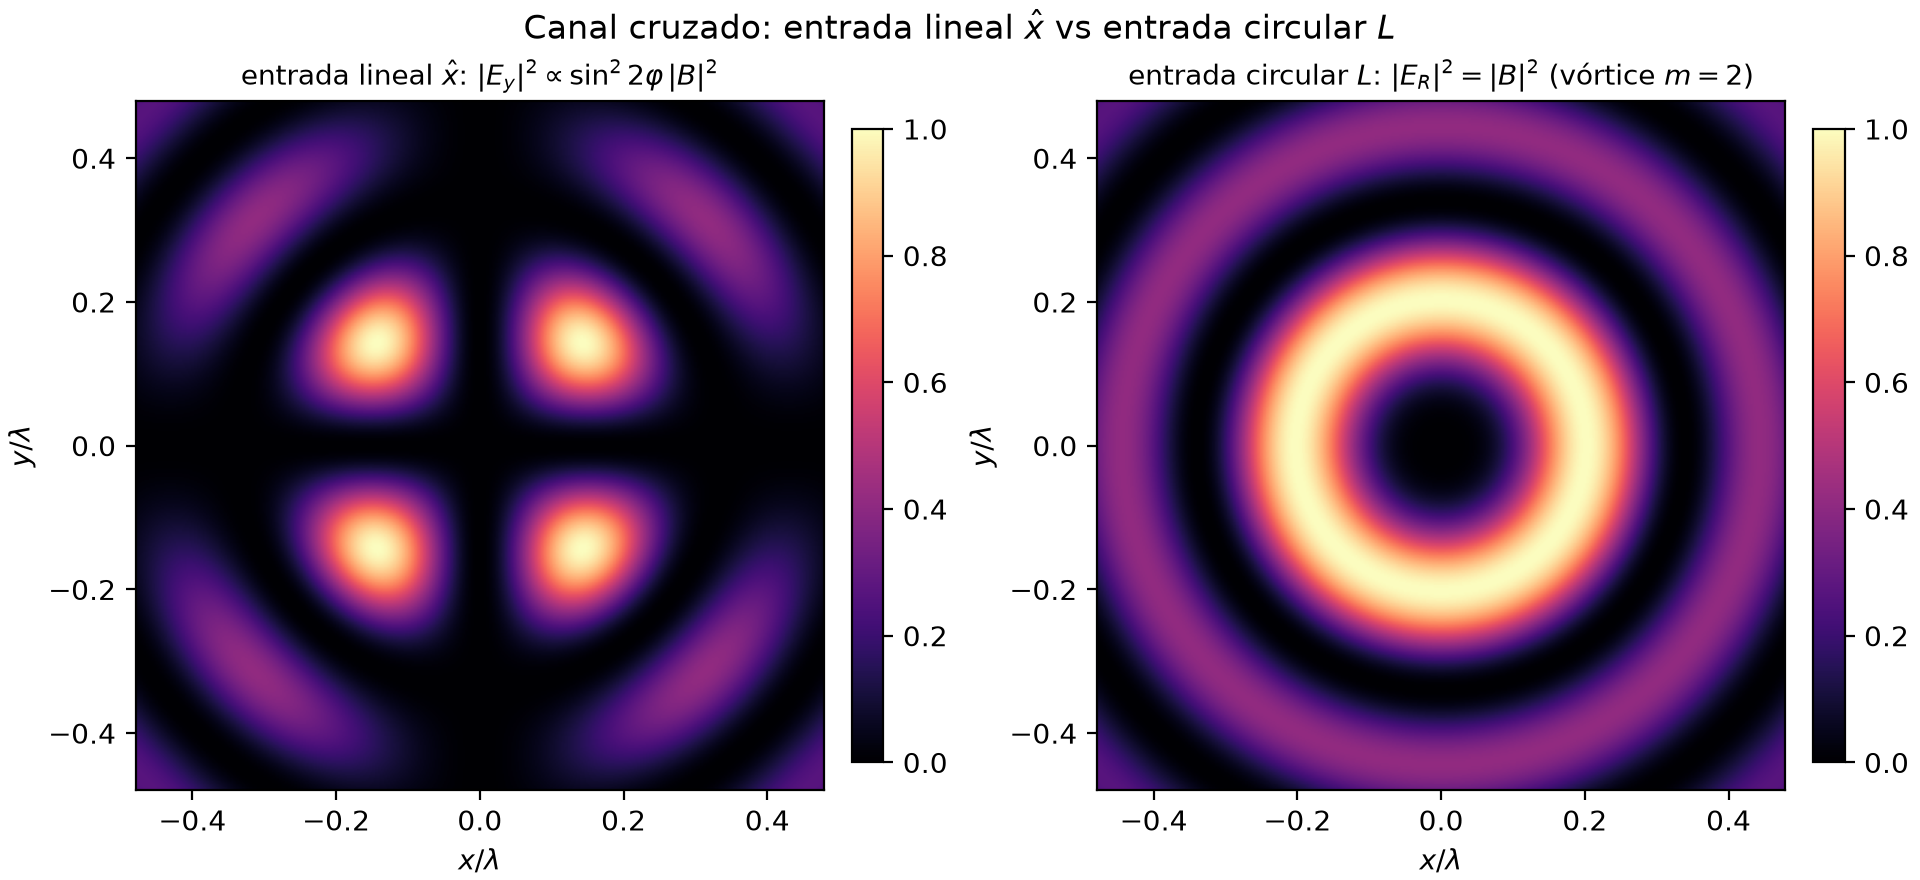
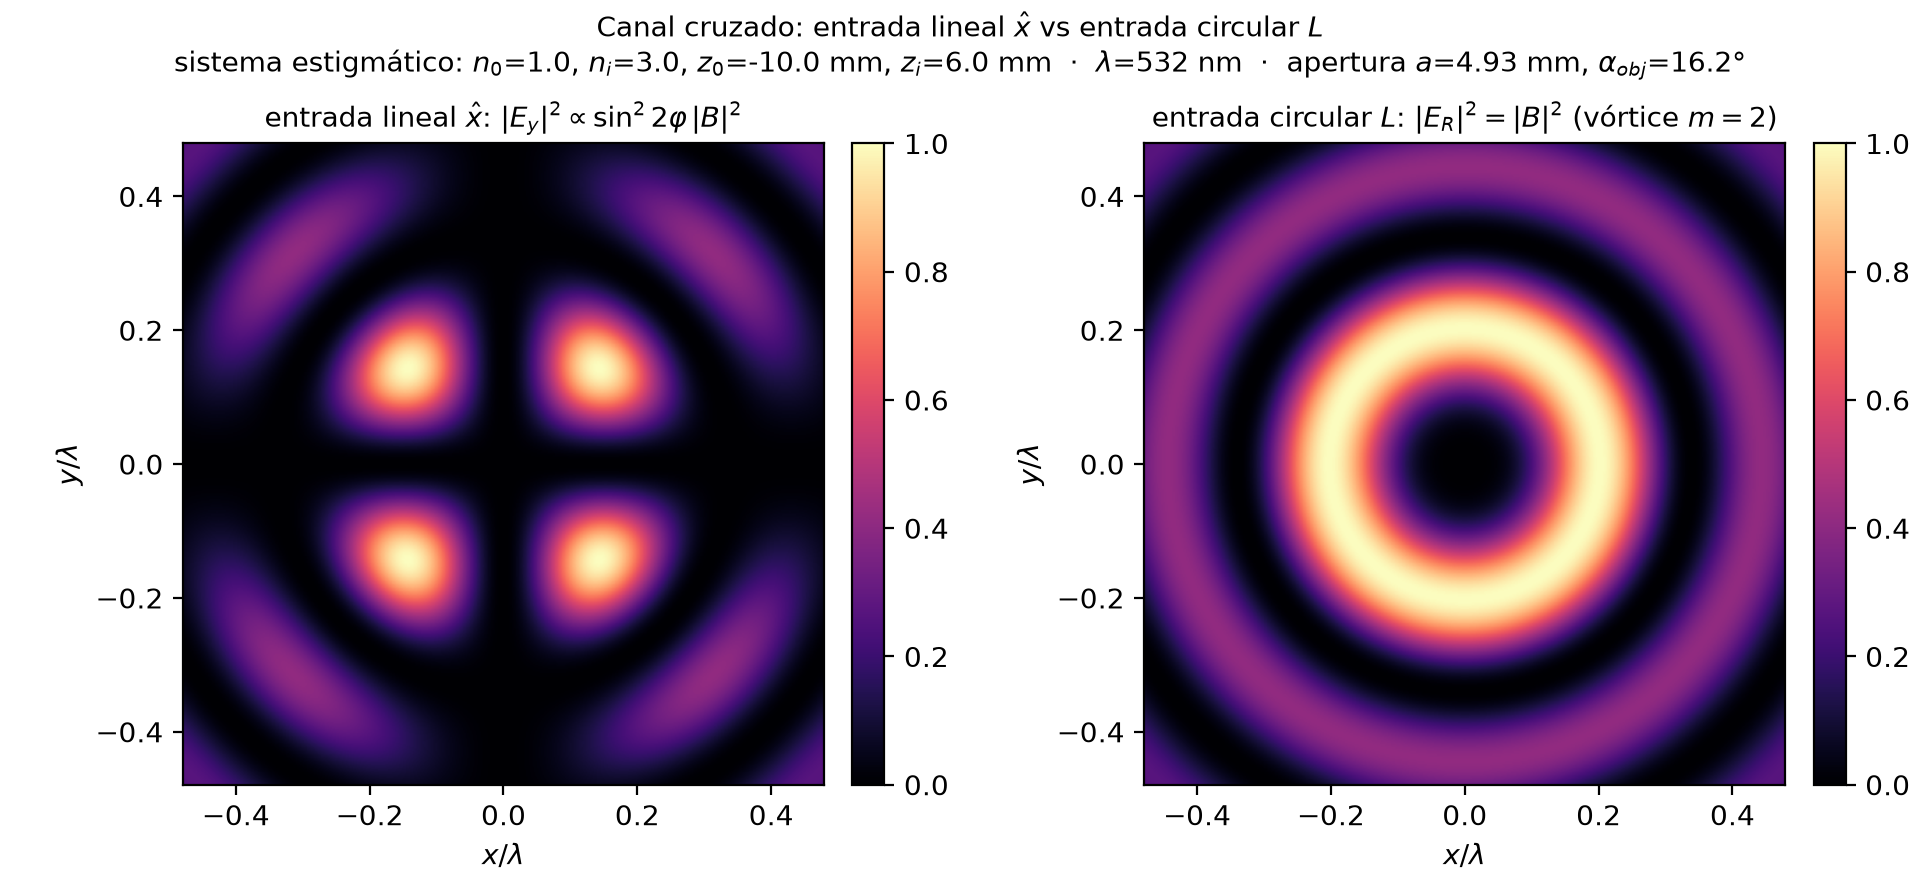
Annotate every study figure with the stigmatic-system parameters
All figures now carry a caption line with the optical system: n0, ni, z0,
zi, wavelength, aperture and maximum aperture angle.

- common.system_caption() for the single-diopter studies (1, 2): base
  n0/ni/z0/zi + lambda, optionally the aperture a and its alpha_obj.
- imaging_common.system_caption() for the two-diopter studies (3, 4):
  both diopters + lambda, optionally the pupil radius r_a and alpha_max
  = arctan(r_a/|z0(D1)|).
- Sweep figures report the swept aperture/index range; fixed-configuration
  figures report the specific values.

Figures regenerated and curated copies in results/ refreshed.

diff --git a/investigation/focal_plane_aperture_study/study_4_resolution_inversion.py b/investigation/focal_plane_aperture_study/study_4_resolution_inversion.py
@@ -134,8 +134,8 @@ for axi, feature in zip(axes, ("discs", "lines")):
     axi.grid(True, alpha=0.3)
     axi.legend(fontsize=8)
 fig.suptitle(
-    rf"Contraste del valle vs separación | $r_a$={R_A} mm, D2 rápida ($z_i$={D2_FAST['zi']}) | "
-    r"polarización incidente lineal $\hat{x}$")
+    r"Contraste del valle vs separación  ·  polarización incidente lineal $\hat{x}$" + "\n"
+    + ic.system_caption(R_A, d2=D2_FAST), fontsize=10)
 fig.savefig(out / "fig1_inversion_window.png", dpi=220)
 plt.close(fig)
 
@@ -208,8 +208,9 @@ for feature, figname in (("discs", "fig2_showcase_discs.png"),
 
     label = "discos" if feature == "discs" else "líneas"
     fig.suptitle(
-        rf"{label}: sep = {s_frac:.2f} $d_{{Airy}}$ = {sep*1e3:.3f} µm | "
-        r"polarización incidente lineal $\hat{x}$, separación $\parallel \hat{y}$")
+        rf"{label}: sep = {s_frac:.2f} $d_{{Airy}}$ = {sep*1e3:.3f} µm  ·  "
+        r"pol. incidente lineal $\hat{x}$, separación $\parallel \hat{y}$" + "\n"
+        + ic.system_caption(R_A, d2=D2_FAST), fontsize=10)
     fig.savefig(out / figname, dpi=200)
     plt.close(fig)
     print(f"{feature}: showcase en sep = {s_frac:.2f} dAiry "
@@ -284,8 +285,9 @@ for feature, figname in (("discs", "fig2_showcase_discs.png"),
             axi.set_ylabel(r"$y/\lambda$")
 
     fig.suptitle(
-        rf"Mapas de polarización (Stokes) de la imagen | {label}, sep = {s_frac:.2f} $d_{{Airy}}$, "
-        r"polarización incidente lineal $\hat{x}$")
+        rf"Mapas de polarización (Stokes) de la imagen  ·  {label}, sep = {s_frac:.2f} $d_{{Airy}}$  ·  "
+        r"pol. incidente lineal $\hat{x}$" + "\n" + ic.system_caption(R_A, d2=D2_FAST),
+        fontsize=10)
     fig.savefig(out / polfig, dpi=180)
     plt.close(fig)
     print(f"{feature}: mapas de Stokes -> {polfig}")
@@ -307,8 +309,9 @@ for feature, figname in (("discs", "fig2_showcase_discs.png"),
         axi.set_xlabel(r"$x/\lambda$")
         axi.set_ylabel(r"$y/\lambda$")
     fig.suptitle(
-        rf"Mapa de polarización de la imagen | {label}, sep = {s_frac:.2f} $d_{{Airy}}$, "
-        r"polarización incidente lineal $\hat{x}$")
+        rf"Mapa de polarización de la imagen  ·  {label}, sep = {s_frac:.2f} $d_{{Airy}}$  ·  "
+        r"pol. incidente lineal $\hat{x}$" + "\n" + ic.system_caption(R_A, d2=D2_FAST),
+        fontsize=10)
     fig.savefig(out / mapfig, dpi=200)
     plt.close(fig)
     print(f"{feature}: mapa de elipses -> {mapfig}")

diff --git a/investigation/focal_plane_aperture_study/study_1_aperture_sweep.py b/investigation/focal_plane_aperture_study/study_1_aperture_sweep.py
@@ -129,8 +129,13 @@ ax[1, 1].set_title("Transmisión y radio de energía encerrada")
 ax[1, 1].grid(True, alpha=0.3)
 ax[1, 1].legend()
 
-fig.suptitle(rf"Barrido de apertura | $n_0$={N0}, $n_i$={NI}, $z_0$={Z0}, $z_i$={ZI} (Fresnel exacto) | "
-             r"polarización incidente lineal $\hat{x}$")
+alpha_max = common.geometry_angles(apertures[-1])[0]
+sweep_caption = (common.system_caption()
+                 + rf"  ·  $a\in$[{apertures[0]:.2f}, {apertures[-1]:.2f}] mm, "
+                 rf"$\alpha_{{obj}}\leq${alpha_max:.1f}°")
+
+fig.suptitle("Barrido de apertura, escalar ($t_-=0$) vs vectorial (Fresnel exacto)  ·  "
+             r"polarización incidente lineal $\hat{x}$" + "\n" + sweep_caption, fontsize=11)
 fig.savefig(out / "fig1_metrics_vs_aperture.png", dpi=220)
 plt.close(fig)
 
@@ -147,6 +152,7 @@ ax.set_ylabel(r"$f_{cross}$")
 ax.set_title("Ley de escala de la componente cruzada")
 ax.grid(True, which="both", alpha=0.3)
 ax.legend()
+fig.suptitle(sweep_caption, fontsize=8)
 fig.savefig(out / "fig2_scaling_law.png", dpi=220)
 plt.close(fig)
 
@@ -183,10 +189,11 @@ for a in selected:
         axi.set_ylabel(r"$y/\lambda$")
         fig.colorbar(im, ax=axi, fraction=0.046, pad=0.04)
     fig.suptitle(
-        rf"a = {a:.2f} mm  ($\alpha_{{obj}}$ = {row['alpha_obj_deg']:.1f}$^\circ$, "
-        rf"$\theta_{{img}}$ = {row['theta_img_deg']:.1f}$^\circ$)  |  "
-        rf"$f_{{cross}}$ = {row['f_cross']:.2e}, elipticidad = {row['ellipticity']:.3f}  |  "
-        r"pol. incidente lineal $\hat{x}$"
+        rf"$a$ = {a:.2f} mm  ($\alpha_{{obj}}$ = {row['alpha_obj_deg']:.1f}$^\circ$, "
+        rf"$\theta_{{img}}$ = {row['theta_img_deg']:.1f}$^\circ$)  ·  "
+        rf"$f_{{cross}}$ = {row['f_cross']:.2e}, elipticidad = {row['ellipticity']:.3f}  ·  "
+        r"pol. incidente lineal $\hat{x}$" + "\n" + common.system_caption(),
+        fontsize=11,
     )
     tag = f"{a:.2f}".replace(".", "p")
     fig.savefig(out / f"fig3_maps_a{tag}.png", dpi=200)
@@ -219,6 +226,7 @@ for a in selected:
     ax2.set_ylim(1e-8, 2)
     ax2.grid(True, which="both", alpha=0.3)
     ax2.legend()
+    fig.suptitle(common.system_caption(a) + r"  ·  pol. incidente lineal $\hat{x}$", fontsize=9)
     fig.savefig(out / f"fig4_cuts_a{tag}.png", dpi=200)
     plt.close(fig)
 

diff --git a/investigation/focal_plane_aperture_study/study_2_maximize_cross.py b/investigation/focal_plane_aperture_study/study_2_maximize_cross.py
@@ -165,7 +165,13 @@ axes[2].set_title("Compromiso eficiencia vs componente cruzada")
 axes[2].grid(True, which="both", alpha=0.3)
 axes[2].legend()
 
-fig.suptitle(r"Componente cruzada vs índice y pupila (Fresnel exacto, rama física del óvalo) | pol. incidente lineal $\hat{x}$")
+sweep_caption = (
+    rf"sistema estigmático: $n_0$={N0}, $z_0$={common.Z0} mm, $z_i$={common.ZI} mm  ·  "
+    rf"$\lambda$={common.LAM * 1e6:.0f} nm  ·  "
+    rf"$n_i\in$[{NI_LIST[0]}, {NI_LIST[-1]}], apertura = 0.98·$r_\mathrm{{rasante}}$")
+fig.suptitle(
+    r"Componente cruzada vs índice y pupila (Fresnel exacto, rama física del óvalo)  ·  "
+    r"pol. incidente lineal $\hat{x}$" + "\n" + sweep_caption, fontsize=11)
 fig.savefig(out / "fig1_maximization.png", dpi=220)
 plt.close(fig)
 
@@ -200,12 +206,12 @@ for axi, (img, cmap, title, clim) in zip(axes, panels):
     axi.set_xlabel(r"$x/\lambda$")
     axi.set_ylabel(r"$y/\lambda$")
     fig.colorbar(im, ax=axi, fraction=0.046, pad=0.04)
+best_caption = common.system_caption(
+    best_entry["a"], ni=best_entry["ni"], z0=best_entry["z0"], zi=best_entry["zi"])
 fig.suptitle(
-    rf"$n_i$={best_entry['ni']}, $\epsilon$={best_entry['eps']}, "
-    rf"$p$={best_entry['p']}, a={best_entry['a']:.2f} mm  |  "
-    rf"$f_{{cross}}$={best_entry['f_cross']:.3f}, throughput={best_entry['throughput']:.3f}  |  "
-    r"pol. incidente lineal $\hat{x}$"
-)
+    rf"$\epsilon$={best_entry['eps']}, $p$={best_entry['p']}  ·  "
+    rf"$f_{{cross}}$={best_entry['f_cross']:.3f}, throughput={best_entry['throughput']:.3f}  ·  "
+    r"pol. incidente lineal $\hat{x}$" + "\n" + best_caption, fontsize=11)
 fig.savefig(out / "fig2_best_config_maps.png", dpi=200)
 plt.close(fig)
 
@@ -234,7 +240,8 @@ for axi, img, title in zip(axes, (clover, ring),
     axi.set_xlabel(r"$x/\lambda$")
     axi.set_ylabel(r"$y/\lambda$")
     fig.colorbar(im, ax=axi, fraction=0.046, pad=0.04)
-fig.suptitle(r"Canal cruzado: entrada lineal $\hat{x}$ vs entrada circular $L$")
+fig.suptitle(r"Canal cruzado: entrada lineal $\hat{x}$ vs entrada circular $L$" + "\n"
+             + best_caption, fontsize=10)
 fig.savefig(out / "fig3_cross_channel_shape.png", dpi=200)
 plt.close(fig)
 

diff --git a/investigation/focal_plane_aperture_study/study_3_imaging.py b/investigation/focal_plane_aperture_study/study_3_imaging.py
@@ -137,7 +137,10 @@ ax3.set_xlabel(r"radio de pupila $r_a$ [mm]")
 ax3.set_title("Diferencia global escalar/vectorial")
 ax3.grid(True, which="both", alpha=0.3)
 ax3.legend(fontsize=8)
-fig.suptitle(r"Formación de imágenes: escalar ($t_-=0$) vs vectorial | polarización incidente lineal $\hat{x}$")
+fig.suptitle(r"Formación de imágenes: escalar ($t_-=0$) vs vectorial  ·  "
+             r"polarización incidente lineal $\hat{x}$" + "\n"
+             + ic.system_caption() + rf"  ·  $r_a\in$[{R_A_LIST[0]}, {R_A_LIST[-1]}] mm",
+             fontsize=10)
 fig.savefig(out / "fig1_contrast_vs_aperture.png", dpi=220)
 plt.close(fig)
 
@@ -185,7 +188,8 @@ for name in orientations:
         axi.set_xlim(-lim, lim)
         axi.set_ylim(-lim, lim)
         fig.colorbar(im, ax=axi, fraction=0.046, pad=0.04)
-    fig.suptitle(rf"Imágenes con r_a = {r_a} mm, orientación {name} | pol. incidente lineal $\hat{{x}}$")
+    fig.suptitle(rf"Orientación {name}  ·  pol. incidente lineal $\hat{{x}}$" + "\n"
+                 + ic.system_caption(r_a), fontsize=10)
     fig.savefig(out / f"fig2_gallery_{name}_ra{str(r_a).replace('.', 'p')}.png", dpi=200)
     plt.close(fig)
 
@@ -212,7 +216,10 @@ for row_i, name in enumerate(orientations):
         ax.set_xlabel(r"$u / (M \cdot sep)$")
         ax.grid(True, alpha=0.3)
 axes[0, 0].legend()
-fig.suptitle(r"Perfiles a través de las dos líneas: escalar vs vectorial | pol. incidente lineal $\hat{x}$")
+fig.suptitle(r"Perfiles a través de las dos líneas: escalar vs vectorial  ·  "
+             r"pol. incidente lineal $\hat{x}$" + "\n"
+             + ic.system_caption() + rf"  ·  $r_a\in$[{R_A_LIST[0]}, {R_A_LIST[-1]}] mm",
+             fontsize=10)
 fig.savefig(out / "fig3_profiles.png", dpi=200)
 plt.close(fig)
 

diff --git a/investigation/focal_plane_aperture_study/imaging_common.py b/investigation/focal_plane_aperture_study/imaging_common.py
@@ -45,6 +45,23 @@ def airy_radius(r_a):
     return 3.8317059702075125 / Kc_of(r_a)
 
 
+def system_caption(r_a=None, *, d2=None, lam=LAM):
+    """One-line summary of the two-diopter stigmatic imaging system.
+
+    Reports both diopters (n0, ni, z0, zi) and the wavelength; when a pupil
+    radius ``r_a`` is given, appends it and the maximum object-side aperture
+    angle ``alpha = arctan(r_a / |z0(D1)|)``.
+    """
+    d2 = D2 if d2 is None else d2
+    cap = (rf"D1: $n_0$={D1['n0']}$\to${D1['ni']}, $z_0$={D1['z0']}, $z_i$={D1['zi']} mm  ·  "
+           rf"D2: $n_0$={d2['n0']}$\to${d2['ni']}, $z_0$={d2['z0']}, $z_i$={d2['zi']} mm  ·  "
+           rf"$\lambda$={lam * 1e6:.0f} nm")
+    if r_a is not None:
+        alpha = np.degrees(np.arctan(r_a / abs(D1["z0"])))
+        cap += rf"  ·  apertura $r_a$={r_a} mm, $\alpha_{{max}}$={alpha:.1f}°"
+    return cap
+
+
 # ------------------------------------------------------------------ #
 #  Masks                                                               #
 # ------------------------------------------------------------------ #

diff --git a/investigation/focal_plane_aperture_study/common.py b/investigation/focal_plane_aperture_study/common.py
@@ -127,6 +127,21 @@ def geometry_angles(rho, *, n0=N0, ni=NI, z0=Z0, zi=ZI):
     return alpha_obj, theta_inc, theta_img
 
 
+def system_caption(a=None, *, n0=N0, ni=NI, z0=Z0, zi=ZI, lam=LAM):
+    """One-line summary of the stigmatic single-diopter system for figures.
+
+    Always reports ``n0, ni, z0, zi`` and the wavelength; when an aperture
+    ``a`` is given, appends it and the resulting maximum object-side aperture
+    angle ``alpha_obj``.
+    """
+    cap = (rf"sistema estigmático: $n_0$={n0}, $n_i$={ni}, "
+           rf"$z_0$={z0} mm, $z_i$={zi} mm  ·  $\lambda$={lam * 1e6:.0f} nm")
+    if a is not None:
+        alpha_obj, _, _ = geometry_angles(a, n0=n0, ni=ni, z0=z0, zi=zi)
+        cap += rf"  ·  apertura $a$={a:.2f} mm, $\alpha_{{obj}}$={alpha_obj:.1f}°"
+    return cap
+
+
 # ------------------------------------------------------------------ #
 #  Vectorized Hankel transform                                         #
 # ------------------------------------------------------------------ #
